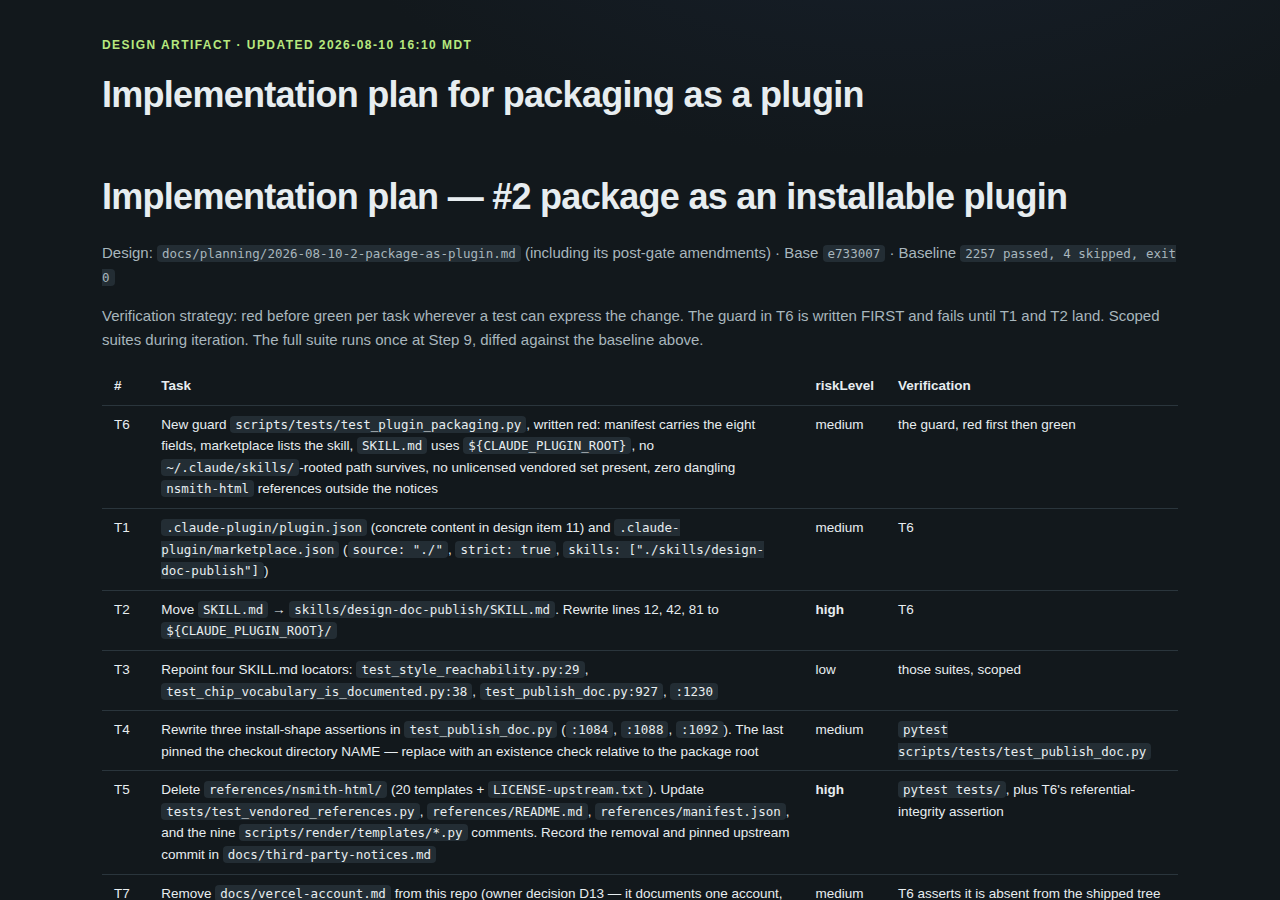
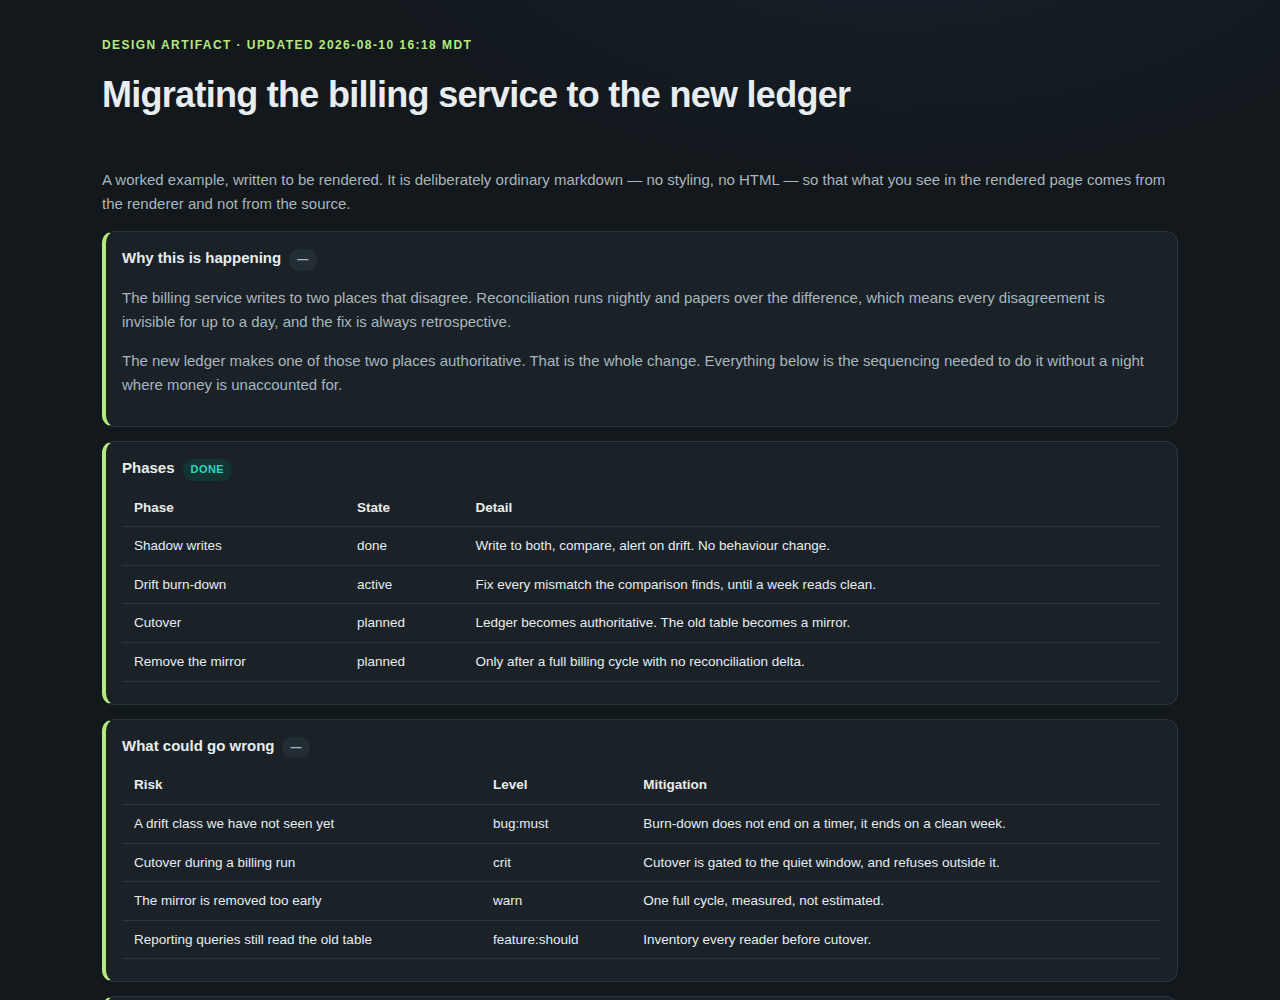
docs(readme): rebuild the example from a purpose-written source
The packaging guard caught this, which is the guard doing its job on me. The
first example was rendered from an internal implementation plan, and that plan
names the vendored set #2 deleted -- so the rendered page reintroduced two
dangling references to files that no longer exist, and shipped them.

The example is now a short worked document written to be rendered: a billing
migration with phases and risks. It is a better example anyway, because a
stranger can read it without knowing anything about this repo, and it exercises
sectioned cards, tables and a chip.

Both halves are committed. The markdown that went in sits beside the HTML that
came out, so a reader can check the claim that the styling comes from the
renderer rather than the source.

Part of #7

diff --git a/docs/examples/example-roadmap.html b/docs/examples/example-roadmap.html
@@ -4,7 +4,7 @@
 <meta charset="utf-8">
 <meta name="viewport" content="width=device-width, initial-scale=1">
 <meta name="generator" content="design-doc-publish">
-<title>Implementation plan for packaging as a plugin</title>
+<title>Migrating the billing service to the new ledger</title>
 <style>
 :root{--bg:#12181c;--surface:#1a2228;--ink:#e7edf0;--ink-2:#a8b6bd;--ink-3:#76858f;
 --line:#2a353c;--accent:#2dd4bf;--code:#232d34}
@@ -345,36 +345,43 @@ color:var(--ink-3);background:var(--code)}
 <body class="tpl-roadmap">
 <div class="wrap">
 <header>
-<div class="eyebrow">design artifact · updated 2026-08-10 16:10 MDT</div>
-<h1>Implementation plan for packaging as a plugin</h1>
+<div class="eyebrow">design artifact · updated 2026-08-10 16:18 MDT</div>
+<h1>Migrating the billing service to the new ledger</h1>
 
 </header>
 <main>
-<h1>Implementation plan — #2 package as an installable plugin</h1>
-<p>Design: <code>docs/planning/2026-08-10-2-package-as-plugin.md</code> (including its post-gate amendments) · Base <code>e733007</code> · Baseline <code>2257 passed, 4 skipped, exit 0</code></p>
-<p>Verification strategy: red before green per task wherever a test can express the change. The guard in T6 is written FIRST and fails until T1 and T2 land. Scoped suites during iteration. The full suite runs once at Step 9, diffed against the baseline above.</p>
-<table>
-<thead><tr><th>#</th><th>Task</th><th>riskLevel</th><th>Verification</th></tr></thead>
+<p>A worked example, written to be rendered. It is deliberately ordinary markdown — no styling, no HTML — so that what you see in the rendered page comes from the renderer and not from the source.</p>
+<section class="mstone rm-epic"><h3>Why this is happening <span class="chip c-plan">—</span></h3><p>The billing service writes to two places that disagree. Reconciliation runs nightly and papers over the difference, which means every disagreement is invisible for up to a day, and the fix is always retrospective.</p>
+<p>The new ledger makes one of those two places authoritative. That is the whole change. Everything below is the sequencing needed to do it without a night where money is unaccounted for.</p></section>
+<section class="mstone rm-epic"><h3>Phases <span class="chip c-conf">DONE</span></h3><table>
+<thead><tr><th>Phase</th><th>State</th><th>Detail</th></tr></thead>
 <tbody>
-<tr><td>T6</td><td>New guard <code>scripts/tests/test_plugin_packaging.py</code>, written red: manifest carries the eight fields, marketplace lists the skill, <code>SKILL.md</code> uses <code>${CLAUDE_PLUGIN_ROOT}</code>, no <code>~/.claude/skills/</code>-rooted path survives, no unlicensed vendored set present, zero dangling <code>nsmith-html</code> references outside the notices</td><td>medium</td><td>the guard, red first then green</td></tr>
-<tr><td>T1</td><td><code>.claude-plugin/plugin.json</code> (concrete content in design item 11) and <code>.claude-plugin/marketplace.json</code> (<code>source: &quot;./&quot;</code>, <code>strict: true</code>, <code>skills: [&quot;./skills/design-doc-publish&quot;]</code>)</td><td>medium</td><td>T6</td></tr>
-<tr><td>T2</td><td>Move <code>SKILL.md</code> → <code>skills/design-doc-publish/SKILL.md</code>. Rewrite lines 12, 42, 81 to <code>${CLAUDE_PLUGIN_ROOT}/</code></td><td><strong>high</strong></td><td>T6</td></tr>
-<tr><td>T3</td><td>Repoint four SKILL.md locators: <code>test_style_reachability.py:29</code>, <code>test_chip_vocabulary_is_documented.py:38</code>, <code>test_publish_doc.py:927</code>, <code>:1230</code></td><td>low</td><td>those suites, scoped</td></tr>
-<tr><td>T4</td><td>Rewrite three install-shape assertions in <code>test_publish_doc.py</code> (<code>:1084</code>, <code>:1088</code>, <code>:1092</code>). The last pinned the checkout directory NAME — replace with an existence check relative to the package root</td><td>medium</td><td><code>pytest scripts/tests/test_publish_doc.py</code></td></tr>
-<tr><td>T5</td><td>Delete <code>references/nsmith-html/</code> (20 templates + <code>LICENSE-upstream.txt</code>). Update <code>tests/test_vendored_references.py</code>, <code>references/README.md</code>, <code>references/manifest.json</code>, and the nine <code>scripts/render/templates/*.py</code> comments. Record the removal and pinned upstream commit in <code>docs/third-party-notices.md</code></td><td><strong>high</strong></td><td><code>pytest tests/</code>, plus T6&#x27;s referential-integrity assertion</td></tr>
-<tr><td>T7</td><td>Remove <code>docs/vercel-account.md</code> from this repo (owner decision D13 — it documents one account, not the tool)</td><td>medium</td><td>T6 asserts it is absent from the shipped tree</td></tr>
-<tr><td>T10</td><td><code>README.md</code> install section: <code>claude plugin marketplace add</code> then <code>claude plugin install</code>, in that order. The human-facing command must NOT use <code>${CLAUDE_PLUGIN_ROOT}</code>, which no shell expands</td><td>low</td><td>scoped doc guards</td></tr>
-<tr><td>T11</td><td>Live verification. Install the real plugin, assert the resolved skill root is under <code>~/.claude/plugins/cache/</code> and NOT the legacy symlink, render one real <code>.md</code> end to end through the installed copy with all 7 stages OK, confirm a genuinely fresh session can invoke it, then uninstall AND remove the orphaned version directory, asserting both settings and cache path are gone</td><td><strong>high</strong></td><td>AC3, AC4, AC6 — evidence captured verbatim</td></tr>
+<tr><td>Shadow writes</td><td>done</td><td>Write to both, compare, alert on drift. No behaviour change.</td></tr>
+<tr><td>Drift burn-down</td><td>active</td><td>Fix every mismatch the comparison finds, until a week reads clean.</td></tr>
+<tr><td>Cutover</td><td>planned</td><td>Ledger becomes authoritative. The old table becomes a mirror.</td></tr>
+<tr><td>Remove the mirror</td><td>planned</td><td>Only after a full billing cycle with no reconciliation delta.</td></tr>
 </tbody>
-</table>
-<p>Three tasks are <code>riskLevel: high</code> (T2, T5, T11), so <strong>Step 8a per-task review is mandatory</strong> as one accumulated wave over their commits.</p>
-<section class="mstone rm-epic"><h3>Deferred verification <span class="chip c-plan">—</span></h3><p>None planned. T11 is the live check and runs in-run. If the fresh-session half (AC3) cannot be completed from inside this session, it is recorded as a deferral carrying its local proxy and its target check, never silently dropped.</p></section>
-<section class="mstone rm-epic"><h3>Sequencing <span class="chip c-plan">—</span></h3><p>T6 (red) → T1 → T2 → T3 → T4 → T5 → T7 → T10 → T11. T3 and T4 both edit <code>test_publish_doc.py</code>, so they run adjacent and in that order.</p></section>
-<section class="mstone rm-epic"><h3>Scope note <span class="chip c-plan">—</span></h3><p>T7 removes <code>docs/vercel-account.md</code>, which stays in #2 because it is about what the plugin ships.</p>
-<p>The setup flow does NOT ship here. Owner decision D14 split it into its own child, <a href="https://github.com/3D-Stories/design-doc-publish/issues/9">#9</a>, which now carries the setup entry point and the retirement of the hardcoded <code>~/rawgentic/.rawgentic_workspace.json</code> default at <code>scripts/publish_doc.py:134</code> and <code>index/build_index.py:75</code>. #9 depends on #2 and is in this run&#x27;s queue. So #2 stays inside its six original acceptance criteria.</p></section>
+</table></section>
+<section class="mstone rm-epic"><h3>What could go wrong <span class="chip c-plan">—</span></h3><table>
+<thead><tr><th>Risk</th><th>Level</th><th>Mitigation</th></tr></thead>
+<tbody>
+<tr><td>A drift class we have not seen yet</td><td>bug:must</td><td>Burn-down does not end on a timer, it ends on a clean week.</td></tr>
+<tr><td>Cutover during a billing run</td><td>crit</td><td>Cutover is gated to the quiet window, and refuses outside it.</td></tr>
+<tr><td>The mirror is removed too early</td><td>warn</td><td>One full cycle, measured, not estimated.</td></tr>
+<tr><td>Reporting queries still read the old table</td><td>feature:should</td><td>Inventory every reader before cutover.</td></tr>
+</tbody>
+</table></section>
+<section class="mstone rm-epic"><h3>The one thing to get right <span class="chip c-plan">—</span></h3><p><strong>The cutover is reversible for exactly as long as the mirror exists.</strong> That is why removing the mirror is its own phase, after a full cycle, rather than a tidy-up at the end of the cutover. A rollback after the mirror is gone is a restore from backup, which is a different and much worse conversation.</p></section>
+<section class="mstone rm-epic"><h3>Open questions <span class="chip c-plan">—</span></h3><ol>
+<li>Does the nightly reconciliation job need to keep running during burn-down, or does the comparison</li>
+</ol>
+<p>   already cover it? Leaning yes to keeping it, because it is cheap and it is the thing that would    catch a mistake in the comparison itself.</p>
+<ol start="2">
+<li>Who owns the quiet-window definition? It is currently a constant in two services.</li>
+</ol></section>
 
 </main>
-<footer>Last updated: 2026-08-10 16:10 MDT · generated by design-doc-publish — self-contained, no external resources.</footer>
+<footer>Last updated: 2026-08-10 16:18 MDT · generated by design-doc-publish — self-contained, no external resources.</footer>
 </div>
 </body>
 </html>

diff --git a/docs/examples/example-source.md b/docs/examples/example-source.md
@@ -1,0 +1,45 @@
+# Migrating the billing service to the new ledger
+
+A worked example, written to be rendered. It is deliberately ordinary markdown — no styling, no
+HTML — so that what you see in the rendered page comes from the renderer and not from the source.
+
+## Why this is happening
+
+The billing service writes to two places that disagree. Reconciliation runs nightly and papers over
+the difference, which means every disagreement is invisible for up to a day, and the fix is always
+retrospective.
+
+The new ledger makes one of those two places authoritative. That is the whole change. Everything
+below is the sequencing needed to do it without a night where money is unaccounted for.
+
+## Phases
+
+| Phase | State | Detail |
+| --- | --- | --- |
+| Shadow writes | done | Write to both, compare, alert on drift. No behaviour change. |
+| Drift burn-down | active | Fix every mismatch the comparison finds, until a week reads clean. |
+| Cutover | planned | Ledger becomes authoritative. The old table becomes a mirror. |
+| Remove the mirror | planned | Only after a full billing cycle with no reconciliation delta. |
+
+## What could go wrong
+
+| Risk | Level | Mitigation |
+| --- | --- | --- |
+| A drift class we have not seen yet | bug:must | Burn-down does not end on a timer, it ends on a clean week. |
+| Cutover during a billing run | crit | Cutover is gated to the quiet window, and refuses outside it. |
+| The mirror is removed too early | warn | One full cycle, measured, not estimated. |
+| Reporting queries still read the old table | feature:should | Inventory every reader before cutover. |
+
+## The one thing to get right
+
+**The cutover is reversible for exactly as long as the mirror exists.** That is why removing the
+mirror is its own phase, after a full cycle, rather than a tidy-up at the end of the cutover. A
+rollback after the mirror is gone is a restore from backup, which is a different and much worse
+conversation.
+
+## Open questions
+
+1. Does the nightly reconciliation job need to keep running during burn-down, or does the comparison
+   already cover it? Leaning yes to keeping it, because it is cheap and it is the thing that would
+   catch a mistake in the comparison itself.
+2. Who owns the quiet-window definition? It is currently a constant in two services.

diff --git a/README.md b/README.md
@@ -8,13 +8,16 @@ it directly, and everything below is a command you can paste into a terminal.
 
 ## What the output looks like
 
-![A rendered roadmap page: dark background, an eyebrow line reading DESIGN ARTIFACT, a large title,
-and a table of tasks with risk levels and inline code
-spans](docs/examples/example-roadmap.png)
+![A rendered page on a dark background: an eyebrow line reading DESIGN ARTIFACT with a timestamp, a
+large title, then sectioned cards with a green left edge. One card header carries a small green DONE
+chip, and the cards hold tables of phases and
+risks](docs/examples/example-roadmap.png)
 
-That page is committed at [`docs/examples/example-roadmap.html`](docs/examples/example-roadmap.html)
-— open it in a browser and it is exactly what you see above. It was produced by the command in the
-next section from an ordinary markdown file, with no styling in the source.
+Both halves of that are committed, so neither can rot into a promise:
+[`docs/examples/example-source.md`](docs/examples/example-source.md) is the ordinary markdown that
+went in — no styling, no HTML — and
+[`docs/examples/example-roadmap.html`](docs/examples/example-roadmap.html) is the page that came out.
+Open the HTML in a browser and it is exactly what you see above.
 
 ## Install it
 
